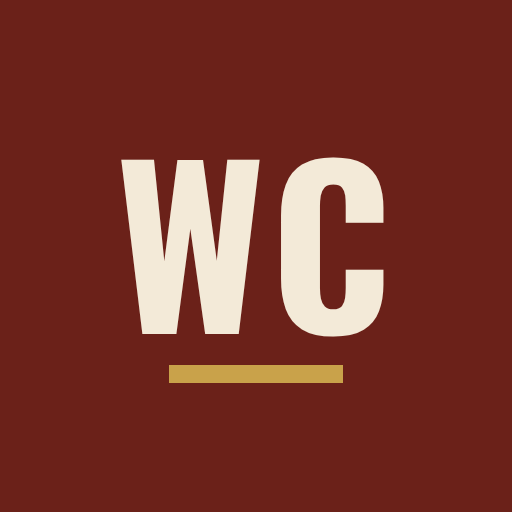
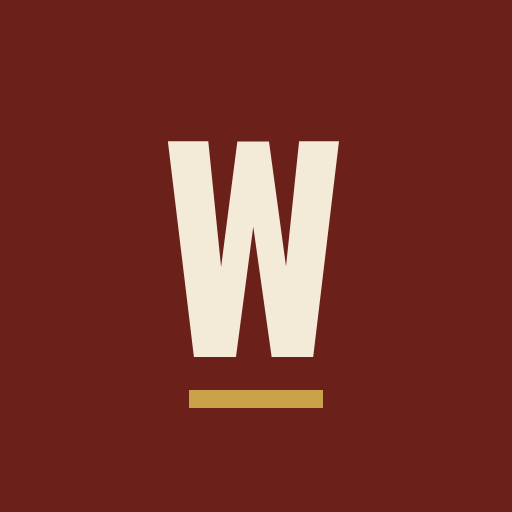
Icône : W seul à la place de WC
Claude-Session: https://claude.ai/code/session_012qsSoSyj145NLtxxVZJvKq

Changed region(s): [[0.2188, 0.25, 0.75, 0.8125]]

diff --git a/sw.js b/sw.js
@@ -1,5 +1,5 @@
 // WarCounter : service worker (hors ligne + mise à jour en arrière-plan)
-const VERSION = "warcounter-v8";
+const VERSION = "warcounter-v9";
 const CORE = ["./", "./index.html", "./manifest.webmanifest", "./icon-192.png", "./icon-512.png", "./icon-maskable-512.png", "./apple-touch-icon.png", "./favicon-32.png"];
 
 self.addEventListener("install", e => {
